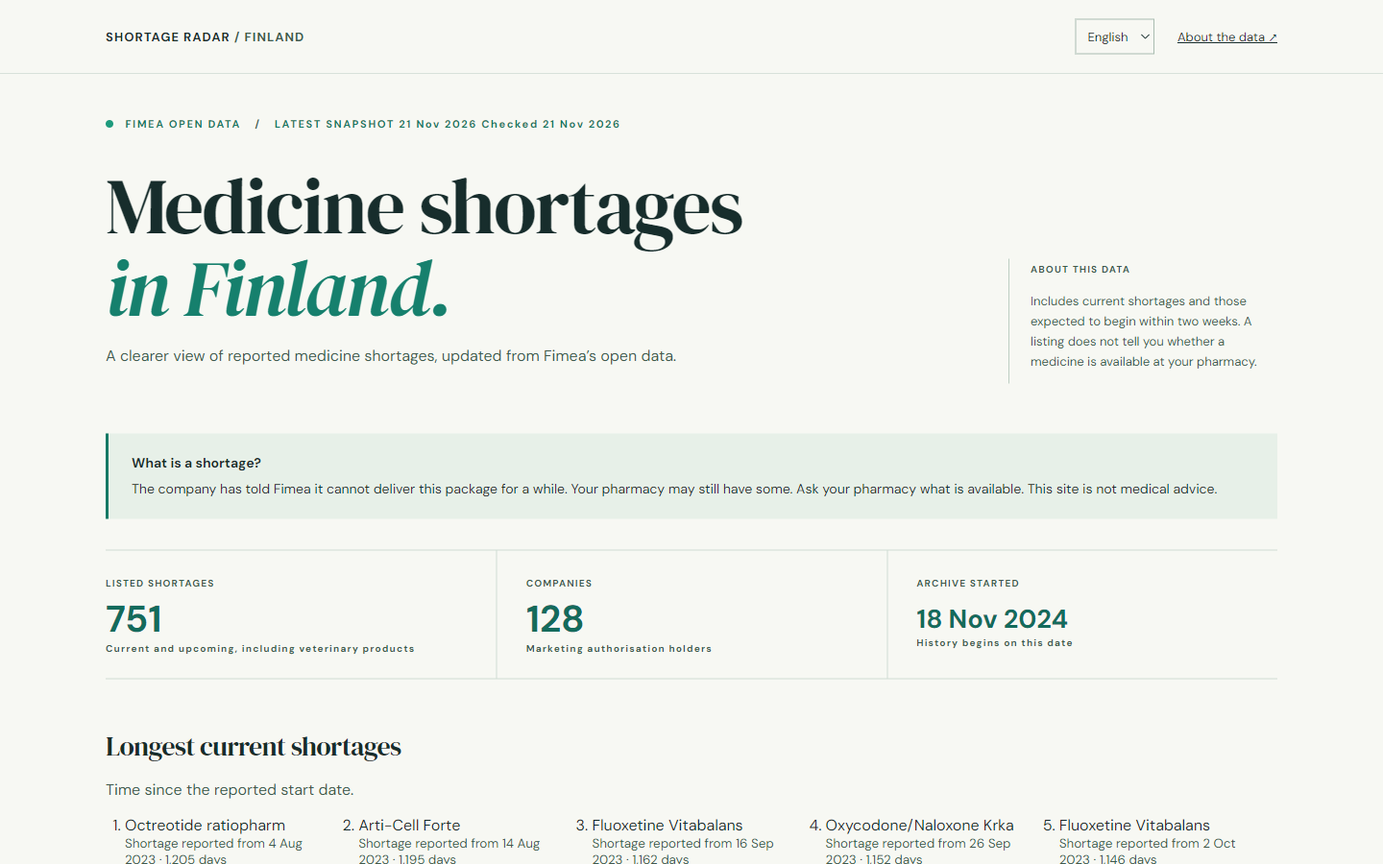
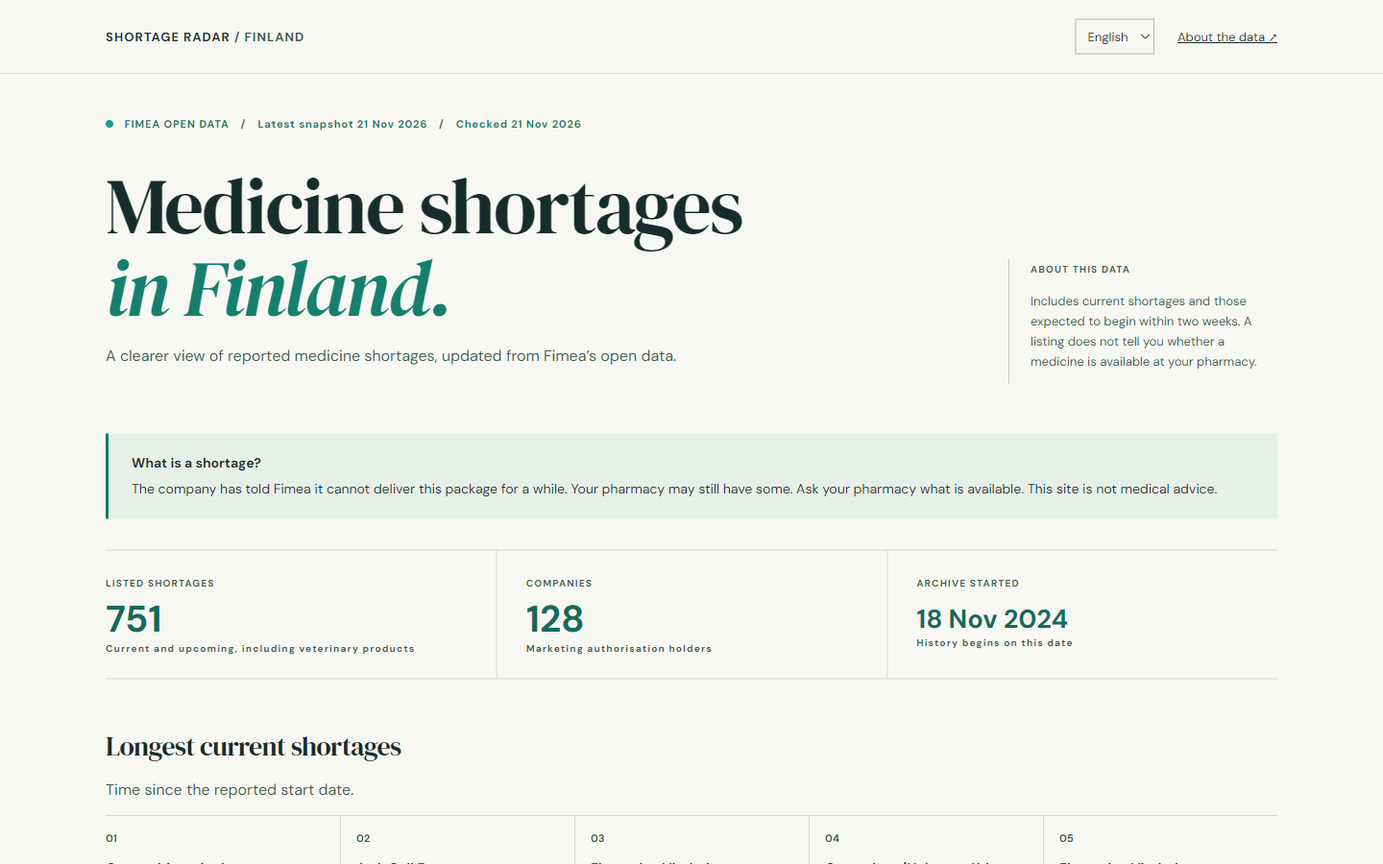
Address PR review: 404 paths, alias prefixes, header, longest list, delays, split data, error states

diff --git a/site/app.js b/site/app.js
@@ -1,4 +1,4 @@
-let data, visible = 50;
+let data, historyData, historyFailed=false, visible = 50;
 const $ = id => document.getElementById(id);
 const esc = value => String(value || '').replace(/[&<>"']/g, c => ({'&':'&amp;','<':'&lt;','>':'&gt;','"':'&quot;',"'":'&#39;'}[c]));
 const copy = {
@@ -41,9 +41,13 @@ Object.assign(copy.en, {skip:'Skip to shortages', sortLabel:'Sort by', sortNewes
 Object.assign(copy.fi, {skip:'Siirry saatavuushäiriöihin', sortLabel:'Järjestä', sortNewest:'Uusimmat', sortName:'Nimi', sortLongest:'Pisimpään jatkuneet', longestTitle:'Pisimpään jatkuneet saatavuushäiriöt', longestNote:'Aika ilmoitetusta alkamispäivästä.', veterinary:'Eläinlääke', download:'Lataa aineisto:', checked:d=>`Tarkistettu ${d}`, stale:'Aineisto on tarkistettu yli 3 päivää sitten.'});
 Object.assign(copy.en, {buildOnly:'Build time; the last source check is unknown.', staleBuild:'The build is more than 3 days old.'});
 Object.assign(copy.fi, {buildOnly:'Koostamisaika; viimeisin lähteen tarkistus ei ole tiedossa.', staleBuild:'Koostamisesta on yli 3 päivää.'});
+Object.assign(copy.en, {aboutShort:'About ↗', form:'Form on the package (Finnish)', latest:d=>`Latest snapshot ${d}`, updated:d=>`Updated ${d}`, sourceError:'Fimea open data', historyError:'History could not be loaded.', delayHeadline:(a,b)=>`${a}–${b} of the observed shortages were still listed after the first estimated end date.`, delayBy:'Left by the estimate', delayPast:'Listed after the estimate', delayUncertain:'Timing uncertain', delayActive:n=>`${n} other shortages were still listed past the estimate.`, delayMethod:(n,g)=>`Among ${n} shortages that entered and left the list, captures were at most ${g} days apart at both ends. Removal from the list does not prove supply returned. The uncertain cases set the range; ongoing shortages are not included in it.`});
+Object.assign(copy.fi, {aboutShort:'Tietoa ↗', latest:d=>`Viimeisin tilannekuva ${d}`, updated:d=>`Päivitetty ${d}`, sourceError:'Fimean avoin data', historyError:'Historiaa ei voitu ladata.', delayHeadline:(a,b)=>`${a}–${b} havaituista saatavuushäiriöistä oli yhä listalla ensimmäisen arvioidun päättymispäivän jälkeen.`, delayBy:'Poistui arvioon mennessä', delayPast:'Listalla arvion jälkeen', delayUncertain:'Ajankohta epävarma', delayActive:n=>`${n} muuta saatavuushäiriötä oli edelleen listalla arvion jälkeen.`, delayMethod:(n,g)=>`Mukana on ${n} listalle tullutta ja siltä poistunutta häiriötä, joiden molemmissa päissä tilannekuvien väli oli enintään ${g} päivää. Listalta poistuminen ei todista saatavuuden palautumista. Epävarmat tapaukset määrittävät vaihteluvälin; jatkuvat häiriöt eivät sisälly siihen.`});
+copy.en.delayMethod=(n,g)=>`Among ${n} shortages that entered and left the list, captures were at most ${g} days apart at both ends. The first observed estimate may already have been revised. Removal does not prove supply returned; uncertain cases set the range and ongoing shortages are excluded.`;
+copy.fi.delayMethod=(n,g)=>`Mukana on ${n} listalle tullutta ja siltä poistunutta häiriötä, joiden molemmissa päissä tilannekuvien väli oli enintään ${g} päivää. Ensimmäistä havaittua arviota on voitu muuttaa jo aiemmin. Poistuminen ei todista saatavuuden palautumista; epävarmat tapaukset määrittävät vaihteluvälin ja jatkuvat häiriöt eivät sisälly siihen.`;
 const aliases = {parasetamoli:'paracetamol', ibuprofeeni:'ibuprofen', insuliini:'insulin', asetyylisalisyylihappo:'acetylsalicylic acid', amoksisilliini:'amoxicillin', atsitromysiini:'azithromycin', doksisykliini:'doxycycline', metformiini:'metformin', atorvastatiini:'atorvastatin', simvastatiini:'simvastatin', rosuvastatiini:'rosuvastatin', amlodipiini:'amlodipine', bisoprololi:'bisoprolol', metoprololi:'metoprolol', propranololi:'propranolol', losartaani:'losartan', kandesartaani:'candesartan', enalapriili:'enalapril', ramipriili:'ramipril', furosemidi:'furosemide', spironolaktoni:'spironolactone', varfariini:'warfarin', apiksabaani:'apixaban', rivaroksabaani:'rivaroxaban', klopidogreeli:'clopidogrel', omepratsoli:'omeprazole', pantopratsoli:'pantoprazole', esomepratsoli:'esomeprazole', levotyroksiini:'levothyroxine', prednisoloni:'prednisolone', hydrokortisoni:'hydrocortisone', deksametasoni:'dexamethasone', salbutamoli:'salbutamol', budesonidi:'budesonide', formoteroli:'formoterol', setiritsiini:'cetirizine', loratadiini:'loratadine', desloratadiini:'desloratadine', sertraliini:'sertraline', sitalopraami:'citalopram', essitalopraami:'escitalopram', fluoksetiini:'fluoxetine', venlafaksiini:'venlafaxine', duloksetiini:'duloxetine', mirtatsapiini:'mirtazapine', amitriptyliini:'amitriptyline', diatsepaami:'diazepam', oksatsepaami:'oxazepam', tematsepaami:'temazepam', tsolpideemi:'zolpidem', melatoniini:'melatonin', tramadoli:'tramadol', kodeiini:'codeine', morfiini:'morphine', oksikodoni:'oxycodone', gabapentiini:'gabapentin', pregabaliini:'pregabalin', levetirasetaami:'levetiracetam', lamotrigiini:'lamotrigine', karbamatsepiini:'carbamazepine', metotreksaatti:'methotrexate', allopurinoli:'allopurinol', diklofenaakki:'diclofenac', naprokseeni:'naproxen', ketoprofeeni:'ketoprofen', finasteridi:'finasteride', tamsulosiini:'tamsulosin', metronidatsoli:'metronidazole', flukonatsoli:'fluconazole', nitrofurantoiini:'nitrofurantoin', siprofloksasiini:'ciprofloxacin', klindamysiini:'clindamycin', fenoksimetyylipenisilliini:'phenoxymethylpenicillin', asikloviiri:'aciclovir', valasikloviiri:'valaciclovir', ondansetroni:'ondansetron', metoklopramidi:'metoclopramide'};
 const fold = s => String(s || '').toLocaleLowerCase().normalize('NFD').replace(/[\u0300-\u036f]/g,'');
-function searchMatches(e, query) { const q=fold(query.trim()); const terms=[q, ...Object.entries(aliases).filter(([fi])=>fold(fi)===q).map(([,en])=>fold(en))]; return [e.name,e.substances,e.atc,e.Company,e.NordicArticleNumber].some(x=>terms.some(term=>fold(x).includes(term))); }
+function searchMatches(e, query) { const q=fold(query.trim()); const terms=[q, ...Object.entries(aliases).filter(([fi])=>{const key=fold(fi); return q.length>=3 && (key.startsWith(q) || q.startsWith(key.slice(0,-1)));}).map(([,en])=>fold(en))]; return [e.name,e.substances,e.atc,e.Company,e.NordicArticleNumber].some(x=>terms.some(term=>fold(x).includes(term))); }
 let language = 'en';
 try { const saved = localStorage.getItem('language'); language = ['en','fi'].includes(saved) ? saved : ((navigator.language || '').toLowerCase().startsWith('fi') ? 'fi' : 'en'); } catch (_) { language = (typeof navigator !== 'undefined' && (navigator.language || '').toLowerCase().startsWith('fi')) ? 'fi' : 'en'; }
 const numberText = n => new Intl.NumberFormat(language === 'fi' ? 'fi-FI' : 'en-GB').format(n);
@@ -53,7 +57,7 @@ function parsedDate(s) { if (!/^\d{4}-\d{2}-\d{2}$/.test(s || '')) return null; 
 const months = ['Jan','Feb','Mar','Apr','May','Jun','Jul','Aug','Sep','Oct','Nov','Dec'];
 function formatDate(d) { return language === 'fi' ? `${d.getUTCDate()}.${d.getUTCMonth()+1}.${d.getUTCFullYear()}` : `${d.getUTCDate()} ${months[d.getUTCMonth()]} ${d.getUTCFullYear()}`; }
 function dateText(s) { const d=parsedDate(s); return d ? formatDate(d) : '—'; }
-function timestampText(s) { const d=new Date(s); if (Number.isNaN(d.valueOf())) return ''; return new Intl.DateTimeFormat(language === 'fi' ? 'fi-FI' : 'en-GB', {timeZone:'Europe/Helsinki', day:'numeric', month:'short', year:'numeric', hour:'2-digit', minute:'2-digit', timeZoneName:'short'}).format(d); }
+function timestampText(s) { const d=new Date(s); if (Number.isNaN(d.valueOf())) return ''; const parts=new Intl.DateTimeFormat('en-GB',{timeZone:'Europe/Helsinki',year:'numeric',month:'2-digit',day:'2-digit',hour:'2-digit',minute:'2-digit',hourCycle:'h23'}).formatToParts(d); const get=k=>parts.find(p=>p.type===k).value; const local=new Date(Date.UTC(+get('year'),+get('month')-1,+get('day'))); return language==='fi' ? `${formatDate(local)} klo ${+get('hour')}.${get('minute')} Suomen aikaa` : `${formatDate(local)}, ${get('hour')}:${get('minute')} Helsinki time`; }
 function todayUTC() { const parts = new Intl.DateTimeFormat('en-CA',{timeZone:'Europe/Helsinki',year:'numeric',month:'2-digit',day:'2-digit'}).formatToParts(new Date()); const get = type => parts.find(p=>p.type===type).value; return Date.UTC(+get('year'),+get('month')-1,+get('day')); }
 function freshnessInfo(d, now = Date.now(), today = todayUTC()) {
   const t=copy[language], checked=parsedDate(d.last_checked);
@@ -104,7 +108,7 @@ function setLanguage() {
   document.querySelectorAll('[data-i18n-aria]').forEach(el => el.setAttribute('aria-label',t[el.dataset.i18nAria]));
   $('help-title').textContent=t.helpTitle; $('help-text').textContent=t.help; $('list-title').textContent=t.title; $('search-hint').textContent=t.hint; $('search').placeholder=t.placeholder; $('search').setAttribute('aria-label',t.searchLabel);
   try { localStorage.setItem('language',language); } catch (_) {}
-  if(data) renderData(); else if (loadFailed) { $('updated').textContent=t.loadError; $('list').textContent=t.listError; } else { $('updated').textContent=t.loadingData; $('list').textContent=t.loading; $('delay-note').textContent=t.delayEmpty; }
+  if(data) renderData(); else if (loadFailed) { $('updated').textContent=t.loadError; $('list').innerHTML=`<p class="list-state">${esc(t.listError)} <a href="https://fimea.fi/en/about_us/open-data">${esc(t.sourceError)}</a></p>`; } else { $('updated').textContent=t.loadingData; $('list').textContent=t.loading; $('delay-note').textContent=t.delayEmpty; }
 }
 let loadFailed=false;
 $('language').value=language;
@@ -134,14 +138,12 @@ function drawChart(history, maxGap) {
   $('chart').innerHTML=`<svg viewBox="0 0 400 170" role="img" aria-label="${esc(t.chartSummary(dateText(history[0].date),dateText(last.date),numberText(last.count),gaps.join(', ')))}">${grid}${svg}</svg><div class="chart-labels"><span>${esc(dateText(history[0].date))}</span><span>${numberText(last.count)} · ${esc(dateText(last.date))}</span></div><div class="chart-labels"><span>${esc(t.savedLegend)}</span><span>${esc(t.importedLegend)}</span></div>${gaps.length ? `<div class="chart-labels"><span>${esc(gaps.map(g=>t.noCaptures(g)).join('; '))}</span></div>` : ''}`;
 }
 function drawDelays(d, snapshotDate) {
-  const t=copy[language]; if(!d) { $('delay-note').textContent=t.delayEmpty; $('delay-list').innerHTML=''; return; }
-  const n=numberText, ex=d.excluded, pct=s=>`${Math.round(s*100)}${language === 'fi' ? ' ' : ''}%`;
-  let text=t.delaySample(n(d.sample_size),n(d.max_gap_days));
-  if(d.meaningful) { text+=t.delayResult(n(d.past_estimate),n(d.not_past_estimate),n(d.undetermined),pct(d.share_past_min),pct(d.share_past_max)); if(d.past_estimate) text+=t.delayMedian(t.dayRange(n(d.median_overrun_min_days),n(d.median_overrun_max_days))); }
-  else text+=t.delaySmall(n(d.min_sample));
-  text+=t.delayBias+t.activePast(n(d.active_past_estimate),dateText(snapshotDate),n(d.max_gap_days));
-  text+=t.delayExcluded(n(ex.listed_at_first_capture),n(ex.no_estimate),n(ex.wide_start_window),n(ex.wide_removal_window),n(ex.vnr_still_listed));
-  $('delay-note').textContent=text;
+  const t=copy[language]; if(!d) { $('delay-headline').textContent=''; $('delay-visual').innerHTML=''; $('delay-note').textContent=t.delayEmpty; $('delay-list').innerHTML=''; return; }
+  const n=numberText, pct=s=>`${Math.round(s*100)}${language === 'fi' ? ' ' : ''}%`;
+  $('delay-headline').textContent=d.meaningful ? t.delayHeadline(pct(d.share_past_min),pct(d.share_past_max)) : t.delaySample(n(d.sample_size),n(d.max_gap_days))+t.delaySmall(n(d.min_sample));
+  const values=[[t.delayBy,d.not_past_estimate],[t.delayPast,d.past_estimate],[t.delayUncertain,d.undetermined]], max=Math.max(...values.map(([,v])=>v),1);
+  $('delay-visual').innerHTML=(d.meaningful ? `<div class="delay-bars">${values.map(([label,value])=>`<div class="delay-row"><span>${esc(label)}</span><svg viewBox="0 0 100 1" preserveAspectRatio="none" aria-hidden="true"><rect width="100" height="1" fill="#e3ece4"/><rect width="${value/max*100}" height="1" fill="#157965"/></svg><strong>${n(value)}</strong></div>`).join('')}</div>` : '')+`<p>${esc(t.activePast(n(d.active_past_estimate),dateText(snapshotDate),n(d.max_gap_days)))}</p>`;
+  $('delay-note').textContent=t.delayMethod(n(d.sample_size),n(d.max_gap_days))+t.delayBias;
   $('delay-list').innerHTML=d.meaningful && d.examples.length ? `<h3>${esc(t.delayExamples)}</h3>`+d.examples.map(e=>`<p>${esc(e.name || e.vnr)} · ${esc(t.firstEstimate)} ${esc(dateText(e.first_estimated_end))} · ${esc(t.lastListed)} ${esc(dateText(e.last_seen))} · ${esc(t.goneBy)} ${esc(dateText(e.removed_on))}</p>`).join('') : '';
 }
 function drawDates(d) {
@@ -149,23 +151,27 @@ function drawDates(d) {
   if (meta.shortages_last_modified && timestampText(meta.shortages_last_modified)) sourceTimes.push(`${copy[language].shortageFile}: ${timestampText(meta.shortages_last_modified)}`);
   if (meta.register_last_modified && timestampText(meta.register_last_modified)) sourceTimes.push(`${copy[language].register}: ${timestampText(meta.register_last_modified)}`);
   $('source-times').textContent = sourceTimes.join('; ');
-  const freshness=freshnessInfo(d); $('freshness').textContent=freshness.text+(freshness.stale ? ` · ${freshness.warning}` : ''); $('freshness').className=freshness.stale ? 'fresh-warning' : '';
-  $('updated').textContent = copy[language].latest(dateText(d.snapshot_date)); $('start').textContent = dateText(d.archive_start);
-  const t=copy[language], own=d.history.filter(h=>!h.imported).length, imported=d.history.length-own;
-  const gaps=d.history.filter(h=>h.gap_days>d.max_gap_days).map(h=>t.gapBefore(numberText(h.gap_days),dateText(h.date)));
-  $('history-note').textContent=t.historySummary(numberText(d.history.length),dateText(d.archive_start),numberText(imported),numberText(own),gaps.join('; '),numberText(d.events.filter(e=>e.listed_at_first_capture).length));
-  const rss=(d.rss_counts || []).filter(c=>c.items);
+  const newer=parsedDate(d.last_checked) && parsedDate(d.snapshot_date) && d.snapshot_date>d.last_checked;
+  const freshness=freshnessInfo(d); $('freshness').textContent=newer ? '' : freshness.text+(freshness.stale ? ` · ${freshness.warning}` : ''); $('freshness').className=!newer && freshness.stale ? 'fresh-warning' : '';
+  $('updated').textContent = newer ? copy[language].updated(dateText(d.snapshot_date)) : copy[language].latest(dateText(d.snapshot_date)); $('start').textContent = dateText(d.archive_start);
+  if (!historyData) { if(historyFailed) { $('history-note').innerHTML=`${esc(copy[language].historyError)} <a href="https://fimea.fi/en/about_us/open-data">${esc(copy[language].sourceError)}</a>`; $('delay-note').textContent=copy[language].historyError; } return; }
+  const h=historyData, t=copy[language], own=h.history.filter(x=>!x.imported).length, imported=h.history.length-own;
+  const gaps=h.history.filter(x=>x.gap_days>h.max_gap_days).map(x=>t.gapBefore(numberText(x.gap_days),dateText(x.date)));
+  $('history-note').textContent=t.historySummary(numberText(h.history.length),dateText(d.archive_start),numberText(imported),numberText(own),gaps.join('; '),numberText(h.first_capture_count));
+  const rss=(h.rss_counts || []).filter(c=>c.items);
   $('rss-note').textContent=rss.length ? t.rssSummary(rss.map(c=>t.rssItem(dateText(c.date),numberText(c.items))).join('; ')) : '';
-  drawChart(d.history,d.max_gap_days); drawDelays(d.delays,d.snapshot_date);
+  drawChart(h.history,h.max_gap_days); drawDelays(h.delays,d.snapshot_date);
 }
 function renderData() {
   const d=data, t=copy[language], current=d.events.filter(e => !e.removed_on), companies={}, atc={};
   current.forEach(e => {const company=e.Company || t.unknownCompany; companies[company]=(companies[company] || 0)+1; const group=e.atc && groupName(e.atc); if(group) atc[group]=(atc[group] || 0)+1;});
   drawDates(d); $('total').textContent=numberText(current.length); $('companies').textContent=numberText(Object.keys(companies).length);
-  const now=todayUTC(); const longest=current.filter(e=>parsedDate(e.UnavailableFrom) && parsedDate(e.UnavailableFrom).valueOf()<=now).sort((a,b)=>a.UnavailableFrom.localeCompare(b.UnavailableFrom)).slice(0,5); $('longest-list').innerHTML=longest.map(e=>`<li>${esc(e.name || t.unavailable)}<small>${esc(t.since)} ${esc(dateText(e.UnavailableFrom))} · ${esc(t.days(Math.floor((now-parsedDate(e.UnavailableFrom).valueOf())/86400000)))}</small></li>`).join('');
+  const now=todayUTC(); const longest=current.filter(e=>parsedDate(e.UnavailableFrom) && parsedDate(e.UnavailableFrom).valueOf()<=now).sort((a,b)=>a.UnavailableFrom.localeCompare(b.UnavailableFrom)).slice(0,5);
+  $('longest-list').innerHTML=longest.map(e=>{const duration=t.days(Math.floor((now-parsedDate(e.UnavailableFrom).valueOf())/86400000)).replace(/ /g,'\u00a0'); return `<li><div><strong>${esc(e.name || t.unavailable)}</strong><small>${esc([e.pack,e.Company].filter(Boolean).join(' · '))}</small><small>${esc(t.since)} ${esc(dateText(e.UnavailableFrom))}</small></div><span class="duration">${esc(duration)}</span></li>`;}).join('');
   bars('atc',atc,30); bars('company',companies,10); drawList();
 }
-fetch('data.json').then(r => {if (!r.ok) throw Error(); return r.json()}).then(d => {data=d; renderData();}).catch(() => {loadFailed=true; setLanguage();});
+fetch('current.json').then(r => {if (!r.ok) throw Error(); return r.json()}).then(d => {data=d; renderData(); requestAnimationFrame(()=>fetch('history.json').then(r=>{if(!r.ok) throw Error(); return r.json()}).then(h=>{historyData=h; renderData();}).catch(()=>{historyFailed=true; renderData();}));}).catch(() => {data=undefined; loadFailed=true; setLanguage();});
 $('search').addEventListener('input', () => {visible=50; if(data) drawList()}); $('more').addEventListener('click', () => {visible+=50; drawList()});
 
 $('sort').addEventListener('change', () => {visible=50; if(data) drawList();});
+document.documentElement.dataset.appReady='true';

diff --git a/site/index.html b/site/index.html
@@ -16,17 +16,17 @@
 <body>
 <a class="skip-link" href="#shortages" data-i18n="skip">Skip to shortages</a>
 <noscript><p class="noscript">JavaScript is needed to load the shortage list. / Saatavuushäiriölistan lataaminen edellyttää JavaScriptiä.</p></noscript>
-<header><div class="wrap nav"><a href="#top" class="brand"><span data-i18n="brand">SHORTAGE RADAR</span> <span class="country" data-i18n="country">/ FINLAND</span></a><div class="nav-actions"><label for="language" class="sr-only" data-i18n="languageLabel">Language</label><select id="language"><option value="en">English</option><option value="fi">Suomi</option></select><a href="https://github.com/AlejandroRenalias/shortage-radar"><span data-i18n="aboutLink">About the data ↗</span></a></div></div></header>
+<header><div class="wrap nav"><a href="#top" class="brand"><span data-i18n="brand">SHORTAGE RADAR</span> <span class="country" data-i18n="country">/ FINLAND</span></a><div class="nav-actions"><label for="language" class="sr-only" data-i18n="languageLabel">Language</label><select id="language"><option value="en">English</option><option value="fi">Suomi</option></select><a href="https://github.com/AlejandroRenalias/shortage-radar"><span class="about-full" data-i18n="aboutLink">About the data ↗</span><span class="about-short" data-i18n="aboutShort">About ↗</span></a></div></div></header>
 <main id="top" class="wrap">
-  <div class="eyebrow"><span class="dot"></span> <span data-i18n="openData">FIMEA OPEN DATA</span> <span class="sep">/</span> <span id="updated">Loading data…</span> <span id="freshness"></span></div>
+  <div class="eyebrow"><span class="eyebrow-source"><span class="dot"></span> <span data-i18n="openData">FIMEA OPEN DATA</span></span><span id="updated">Data unavailable / Tiedot eivät ole saatavilla</span><span id="freshness"></span></div>
   <section class="intro"><div><h1><span data-i18n="heading">Medicine shortages</span><br><em data-i18n="headingPlace">in Finland.</em></h1><p><span data-i18n="intro">A clearer view of reported medicine shortages, updated from Fimea’s open data.</span></p></div><div class="intro-note"><span><span data-i18n="aboutTitle">ABOUT THIS DATA</span></span><p><span data-i18n="aboutText">Includes current shortages and those expected to begin within two weeks. A listing does not tell you whether a medicine is available at your pharmacy.</span></p></div></section>
   <aside class="help" aria-labelledby="help-title"><strong id="help-title">What is a shortage?</strong><p id="help-text">The company has told Fimea it cannot deliver this package for a while. Your pharmacy may still have some. Ask your pharmacy what is available. This site is not medical advice.</p></aside>
   <section class="stats" data-i18n-aria="overview" aria-label="Overview"><div><span><span data-i18n="statShortages">LISTED SHORTAGES</span></span><strong id="total">—</strong><small><span data-i18n="statCurrent">Current and upcoming, including veterinary products</span></small></div><div><span><span data-i18n="statCompanies">COMPANIES</span></span><strong id="companies">—</strong><small><span data-i18n="statHolders">Marketing authorisation holders</span></small></div><div><span><span data-i18n="statArchive">ARCHIVE STARTED</span></span><strong class="date" id="start">—</strong><small><span data-i18n="statArchiveNote">History begins on this date</span></small></div></section>
   <section class="longest" aria-labelledby="longest-title"><h2 id="longest-title" data-i18n="longestTitle">Longest current shortages</h2><p data-i18n="longestNote">Time since the reported start date.</p><ol id="longest-list"></ol></section>
-  <section class="listing" id="shortages" tabindex="-1"><div class="section-head"><div><div class="kicker"><span data-i18n="listKicker">01 / THE LIST</span></div><h2 id="list-title">Reported shortages</h2><p id="search-hint">Search by medicine, active substance, ATC, company or VNR.</p></div><label class="search"><span class="sr-only"><span data-i18n="searchLabel">Search shortages</span></span><span aria-hidden="true">⌕</span><input id="search" type="search" placeholder="Search your medicine, e.g. Burana"></label><label class="sort"><span data-i18n="sortLabel">Sort by</span> <select id="sort"><option value="newest" data-i18n="sortNewest">Newest</option><option value="name" data-i18n="sortName">Name</option><option value="longest" data-i18n="sortLongest">Longest running</option></select></label></div><div class="list-meta"><span id="result-count" aria-live="polite" aria-atomic="true"></span><span><span data-i18n="packageLevel">FIMEA · PACKAGE LEVEL</span></span></div><div id="list" class="list"><p class="list-state">Loading shortages…</p></div><button id="more" hidden>Show more</button></section>
+  <section class="listing" id="shortages" tabindex="-1"><div class="section-head"><div><div class="kicker"><span data-i18n="listKicker">01 / THE LIST</span></div><h2 id="list-title">Reported shortages</h2><p id="search-hint">Search by medicine, active substance, ATC, company or VNR.</p></div><label class="search"><span class="sr-only"><span data-i18n="searchLabel">Search shortages</span></span><span aria-hidden="true">⌕</span><input id="search" type="search" placeholder="Search your medicine, e.g. Burana"></label><label class="sort"><span data-i18n="sortLabel">Sort by</span> <select id="sort"><option value="newest" data-i18n="sortNewest">Newest</option><option value="name" data-i18n="sortName">Name</option><option value="longest" data-i18n="sortLongest">Longest running</option></select></label></div><div class="list-meta"><span id="result-count" aria-live="polite" aria-atomic="true"></span><span><span data-i18n="packageLevel">FIMEA · PACKAGE LEVEL</span></span></div><div id="list" class="list"><p class="list-state">Data could not be loaded. / Tietoja ei voitu ladata. <a href="https://fimea.fi/en/about_us/open-data">Fimea</a></p></div><button id="more" hidden>Show more</button></section>
   <section class="analysis"><div class="section-head"><div><div class="kicker"><span data-i18n="pictureKicker">02 / THE PICTURE</span></div><h2><span data-i18n="pictureTitle">Where shortages appear</span></h2><p><span data-i18n="pictureText">Counts represent listed shortage records, not unique medicines.</span></p></div></div><div class="breakdowns"><div><h3><span data-i18n="byGroup">By medicine group</span></h3><div id="atc"></div></div><div><h3><span data-i18n="byCompany">By company</span> <small><span data-i18n="topTen">top 10</span></small></h3><div id="company"></div></div></div></section>
   <section class="history"><div><div class="kicker"><span data-i18n="historyKicker">03 / OVER TIME</span></div><h2><span data-i18n="historyTitle">A history, starting here.</span></h2><p id="history-note"></p><p><span data-i18n="historyText">Snapshots are saved when the source changes. Gaps do not prove daily observations, and removal from the list is not proof of actual supply.</span></p><p id="rss-note"></p></div><div id="chart" class="chart" data-i18n-aria="chartLabel" aria-label="Shortage counts by saved snapshot"></div></section>
-  <section class="delays"><div class="kicker"><span data-i18n="delayKicker">04 / DELAYS</span></div><h2><span data-i18n="delayTitle">Estimated end vs. list removal</span></h2><p id="delay-note">Needs more weeks of data.</p><div id="delay-list"></div></section>
+  <section class="delays"><div class="kicker"><span data-i18n="delayKicker">04 / DELAYS</span></div><h2><span data-i18n="delayTitle">Estimated end vs. list removal</span></h2><p id="delay-headline"></p><div id="delay-visual"></div><p id="delay-note">Needs more weeks of data.</p><div id="delay-list"></div></section>
   <aside class="notice"><strong data-i18n="noticeTitle">Not medical advice.</strong> <span data-i18n="noticeText">Ask a pharmacist or doctor about your medicines.</span></aside>
 </main><footer><div class="wrap"><p><span data-i18n="footerAgency">Finnish Medicines Agency Fimea</span> · <a href="https://creativecommons.org/licenses/by/4.0/">CC BY 4.0</a> · <span data-i18n="footerTransform">Data was selected, joined and transformed.</span></p><p><span data-i18n="archiveCredit">Earlier captures:</span> <a href="https://web.archive.org/">Internet Archive (web.archive.org)</a></p><p id="source-times"></p><p><span data-i18n="footerNote">Source times show when the files were last modified; the publisher does not provide release times.</span></p><p><span data-i18n="download">Download the data:</span> <a href="shortages.csv">CSV</a> · <a href="data.json">JSON</a> · CC BY 4.0</p><a href="https://fimea.fi/en/about_us/open-data"><span data-i18n="sourceLink">Source and licence ↗</span></a></div></footer>
 </body></html>

diff --git a/site/style.css b/site/style.css
@@ -20,3 +20,7 @@ footer a{float:none}
 
 .skip-link{position:absolute;top:0;left:1rem;z-index:10;background:#153c37;color:white;padding:12px;transform:translateY(-150%)}.skip-link:focus{transform:none}.noscript{padding:1rem}.longest{padding:40px 0;border-bottom:1px solid #d4dfd5}.longest h2{font-size:28px}.longest p{color:#405a4d}.longest ol{display:flex;gap:16px;flex-wrap:wrap;padding-left:20px}.longest li{flex:1 1 180px;padding-right:10px}.longest small{display:block;color:#405a4d}.sort{font-size:14px;white-space:nowrap}.sort select{font:inherit;padding:10px;border:1px solid #8b9e92;background:white;color:#172d2c}.fresh-warning{display:inline-block;color:#713b20;background:#f7edcf;padding:4px 8px}.track svg{display:block;width:100%;height:5px}.vet{font-size:12px;color:#274b3c;border:1px solid #8ba99a;padding:2px 7px}@media(max-width:700px){.sort{display:block;margin-top:16px}.longest ol{display:block}.longest li{margin:8px 0}}
 .sep{color:#405a4d}.search input:focus-visible{outline:2px solid #125e4d;outline-offset:3px}@media(min-width:701px) and (max-width:1000px){.listing .section-head{display:block}.listing .search{margin-top:22px;max-width:500px}.listing .sort{display:block;margin-top:16px}}
+.about-short{display:none}.nav{gap:20px}.nav-actions{flex-shrink:0}.eyebrow{display:flex;flex-wrap:wrap;gap:6px 12px;align-items:baseline;letter-spacing:.08em}.eyebrow-source,#updated,#freshness:not(:empty){display:inline-block}#updated::before,#freshness:not(:empty)::before{content:'/';color:#405a4d;margin-right:12px}.longest ol{display:grid;grid-template-columns:repeat(5,minmax(0,1fr));gap:0;list-style:none;counter-reset:longest;padding:0;border-top:1px solid #cfdcd2}.longest li{counter-increment:longest;display:flex;flex-direction:column;gap:12px;padding:16px 16px 16px 0;border-bottom:1px solid #cfdcd2}.longest li+li{border-left:1px solid #cfdcd2;padding-left:16px}.longest li::before{content:'0' counter(longest);color:#405a4d;font-size:11px;font-weight:700}.longest li strong{font-size:14px;overflow-wrap:anywhere}.longest li small{line-height:1.45;margin-top:5px}.duration{margin-top:auto;font-weight:700;font-size:14px;color:#146b5c;white-space:nowrap}.delay-bars{max-width:680px;margin:25px 0}.delay-row{display:grid;grid-template-columns:minmax(140px,1fr) minmax(60px,2fr) 3em;align-items:center;gap:12px;margin:12px 0;font-size:14px}.delay-row svg{width:100%;height:8px}.delay-row strong{text-align:right}#delay-headline{font-size:19px;color:#172d2c;font-weight:700}#delay-note{max-width:850px;font-size:14px}.row summary{display:list-item;width:auto;list-style-position:inside}
+@media(max-width:700px){.nav{gap:12px}.brand{font-size:11px;letter-spacing:.04em}.nav-actions{gap:8px}.nav-actions select{padding:7px 4px}.nav-actions a{white-space:nowrap}.about-full{display:none}.about-short{display:inline}.eyebrow{gap:6px 10px}.eyebrow-source{flex-basis:100%}.eyebrow-source+.eyebrow-source{flex-basis:auto}#updated::before{content:none}#freshness:not(:empty)::before{margin-right:8px}.longest ol{display:block}.longest li{display:grid;grid-template-columns:24px minmax(0,1fr) auto;gap:10px;align-items:start;margin:0;padding:14px 0}.longest li+li{border-left:0;padding-left:0}.longest li::before{padding-top:3px}.duration{margin:0;align-self:center}.sort{white-space:normal}.sort span{display:block;margin-bottom:7px}.sort select{display:block;width:100%}}
+@media(min-width:701px) and (max-width:1000px){.longest ol{grid-template-columns:repeat(3,minmax(0,1fr))}}
+@media(max-width:700px){#freshness:not(:empty){flex-basis:100%;border-left:2px solid #a9bcb0;padding-left:10px}#freshness:not(:empty)::before{content:none}}

diff --git a/site/404.html b/site/404.html
@@ -1,3 +1,3 @@
 <!doctype html>
-<html lang="en"><head><meta charset="utf-8"><meta name="viewport" content="width=device-width, initial-scale=1"><meta name="referrer" content="no-referrer"><meta name="theme-color" content="#153c37"><title>Page not found — Shortage Radar</title><link rel="icon" href="favicon.svg"><link rel="stylesheet" href="style.css"></head>
-<body><header><div class="wrap nav"><a class="brand" href="./">SHORTAGE RADAR / SAATAVUUSTUTKA</a></div></header><main class="wrap"><section class="listing"><div class="kicker">404</div><h1>Page not found.</h1><p>The page you requested could not be found.</p><p><a href="./">Return to Shortage Radar</a></p><h2>Sivua ei löytynyt.</h2><p>Pyytämääsi sivua ei löytynyt.</p><p><a href="./">Takaisin Saatavuustutkaan</a></p></section></main></body></html>
+<html lang="en"><head><meta charset="utf-8"><meta http-equiv="Content-Security-Policy" content="default-src 'self'; img-src 'self' data:; style-src 'self'; script-src 'self'; connect-src 'self'; base-uri 'none'; form-action 'none'"><meta name="viewport" content="width=device-width, initial-scale=1"><meta name="referrer" content="no-referrer"><meta name="theme-color" content="#153c37"><title>Page not found — Shortage Radar</title><link rel="icon" href="/shortage-radar/favicon.svg"><link rel="stylesheet" href="/shortage-radar/style.css"></head>
+<body><header><div class="wrap nav"><a class="brand" href="/shortage-radar/">SHORTAGE RADAR / SAATAVUUSTUTKA</a></div></header><main class="wrap"><section class="listing"><div class="kicker">404</div><h1>Page not found.</h1><p>The page you requested could not be found.</p><p><a href="/shortage-radar/">Return to Shortage Radar</a></p><h2>Sivua ei löytynyt.</h2><p>Pyytämääsi sivua ei löytynyt.</p><p><a href="/shortage-radar/">Takaisin Saatavuustutkaan</a></p></section></main></body></html>

diff --git a/site/language.js b/site/language.js
@@ -4,4 +4,16 @@
   const language = ['en', 'fi'].includes(saved) ? saved : (navigator.language || '').toLowerCase().startsWith('fi') ? 'fi' : 'en';
   document.documentElement.lang = language;
   if (language === 'fi') document.documentElement.classList.add('i18n-pending');
+  window.addEventListener('DOMContentLoaded', () => {
+    setTimeout(() => {
+      if (document.documentElement.dataset.appReady) return;
+      const list = document.getElementById('list'), updated = document.getElementById('updated');
+      if (updated) updated.textContent = language === 'fi' ? 'Tietojen lataaminen epäonnistui' : 'Unable to load data';
+      if (list) {
+        list.textContent = language === 'fi' ? 'Tietoja ei voitu ladata. ' : 'Data could not be loaded. ';
+        const link = document.createElement('a'); link.href = 'https://fimea.fi/en/about_us/open-data'; link.textContent = language === 'fi' ? 'Fimean avoin data' : 'Fimea open data'; list.append(link);
+      }
+      document.documentElement.classList.remove('i18n-pending');
+    }, 2000);
+  });
 })();

diff --git a/scripts/build.py b/scripts/build.py
@@ -201,6 +201,12 @@ def build():
         for e in current:
             writer.writerow([e['NordicArticleNumber'], e.get('current_vnr', ''), e.get('name', ''), e.get('strength', ''), e.get('form', ''), e.get('pack', ''), e.get('substances', ''), e.get('atc', ''), e['Company'], e['UnavailableFrom'], e['EndingDate'], e['DateOfTheNotification'], 'yes' if e.get('atc', '').startswith('Q') else 'no' if e.get('atc') else ''])
     (ROOT / 'site/data.json').write_text(json.dumps(output, ensure_ascii=False, separators=(',', ':')), encoding='utf-8')
+    current_data = {k: output[k] for k in ('archive_start', 'snapshot_date', 'source_metadata', 'generated_at', 'last_checked')}
+    current_data['events'] = current
+    history_data = {k: output[k] for k in ('history', 'delays', 'rss_counts', 'max_gap_days')}
+    history_data['first_capture_count'] = sum(bool(e.get('listed_at_first_capture')) for e in es)
+    for name, value in [('current.json', current_data), ('history.json', history_data)]:
+        (ROOT / 'site' / name).write_text(json.dumps(value, ensure_ascii=False, separators=(',', ':')), encoding='utf-8')
     print(f"rows={len(current)} matched_names={sum(bool(e.get('name')) for e in current)} unmatched_vnrs={len(unmatched)}")
 
 

diff --git a/tests/test_build.py b/tests/test_build.py
@@ -139,6 +139,11 @@ def test_build_gate_and_csv(tmp_path, monkeypatch):
     build.build()
     data = json.loads((tmp_path / 'site/data.json').read_text(encoding='utf-8'))
     assert data['last_checked'] == '2026-11-02' and data['generated_at'].endswith('+00:00')
+    current = json.loads((tmp_path / 'site/current.json').read_text(encoding='utf-8'))
+    history = json.loads((tmp_path / 'site/history.json').read_text(encoding='utf-8'))
+    assert len(current['events']) == 1 and 'history' not in current
+    assert history['first_capture_count'] == 1 and 'events' not in history
+    assert len(data['events']) == 1 and data['history'] == history['history']
     raw = (tmp_path / 'site/shortages.csv').read_bytes()
     assert raw.startswith(b'\xef\xbb\xbf')
     records = list(csv.DictReader(raw.decode('utf-8-sig').splitlines()))

diff --git a/README.md b/README.md
@@ -8,11 +8,17 @@ Shortage Radar is a searchable view and archive of reported medicine shortages i
 
 ![Finnish dashboard](docs/screenshot-fi.png)
 
+![English shortage list](docs/list-en.png)
+
+![Finnish shortage list](docs/list-fi.png)
+
 **This is not medical advice.** A listing does not establish whether a medicine is available at a particular pharmacy. Ask a pharmacist or doctor about your medicines.
 
 ## How it works
 
 A scheduled job downloads and validates Fimea's shortage file and saves a dated snapshot when its contents change. The site joins package records to the current basic register by VNR and builds a static dashboard. It can be searched by medicine, substance, ATC, company or VNR; it includes veterinary products. Earlier copies from the Internet Archive extend the timeline. The download links on the site provide the current dataset.
+
+The dashboard first loads `current.json` for the list, then loads `history.json` for the chart and analysis. The downloadable `data.json` retains the complete event history.
 
 The CSV uses UTF-8 with a BOM and contains package, medicine, company, date and veterinary fields. The JSON records the UTC build time as `generated_at` and the most recent successful archive check date as `last_checked`, which can be empty. When that date is unavailable, the site labels the build-time fallback and does not imply that the source was checked at build time.
 
